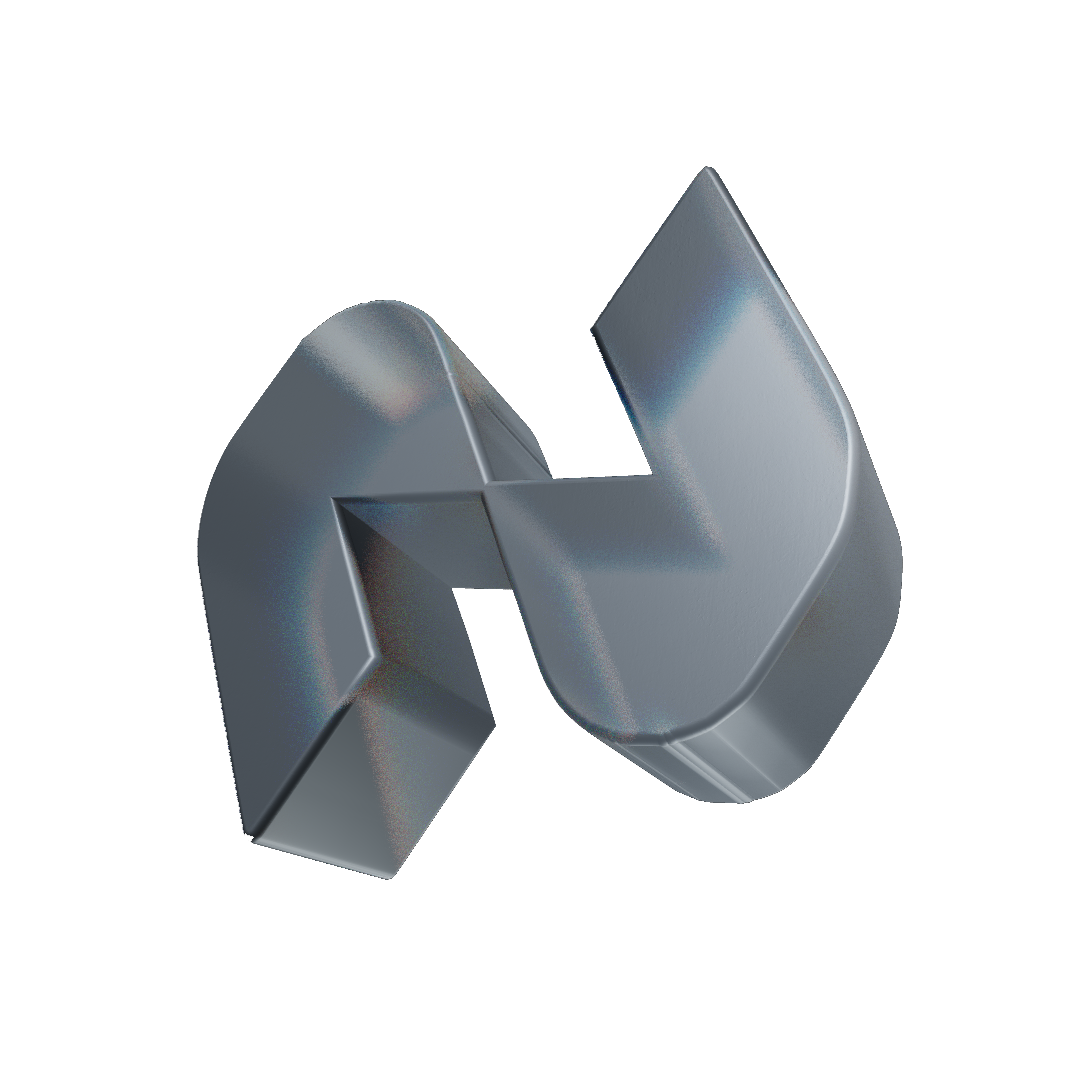
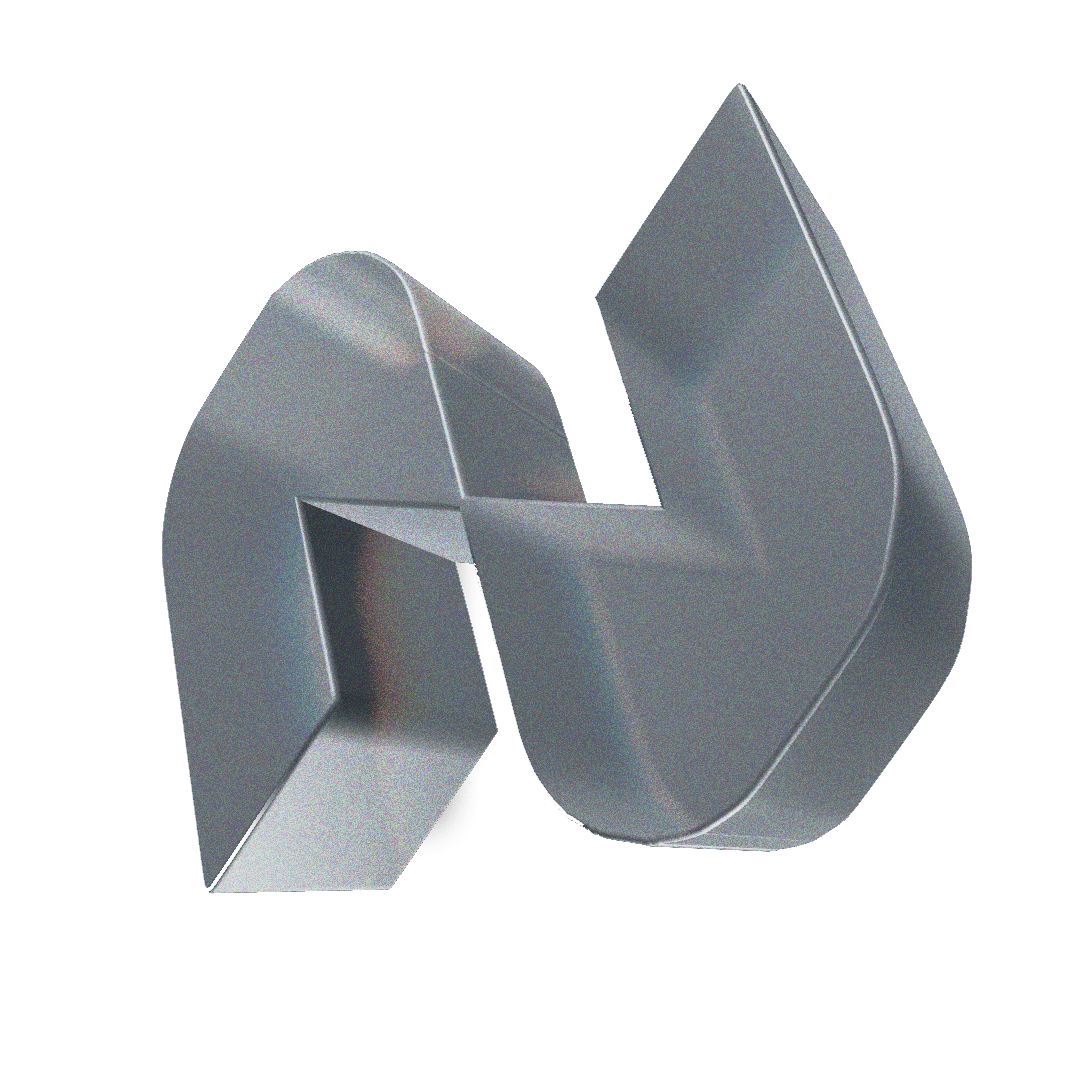
fixed email exist checking in signup logic

diff --git a/src/app/auth/register/page.tsx b/src/app/auth/register/page.tsx
@@ -59,9 +59,10 @@ export default function RegisterPage() {
           method: 'POST',
           headers: { 'Content-Type': 'application/json' },
           body: JSON.stringify({ email: formData.email })
-        })
-
-        emailAlreadyExists = checkResponse.ok;
+        }).then(res => {
+          return res.json();
+        });
+        emailAlreadyExists = checkResponse.exists;
       } catch (fetchErr) {
         console.warn('Email check error:', fetchErr)
         // Continue with signup anyway if email check fails
@@ -172,16 +173,25 @@ export default function RegisterPage() {
           </div>
 
           {/* Right side - Hero Image */}
-          <div className="hidden lg:block relative bg-gradient-to-br from-blue-900 via-blue-700 to-cyan-500">
+          <div className="hidden lg:block relative">
             {/* Logo Neaply en haut à droite */}
             <Link href="/" className="absolute top-8 right-8 z-20">
               <Image src="/images/neaply/logo-light.png" alt="Neaply Logo" width={120} height={40} priority />
             </Link>
 
-            <div className="absolute inset-0">
-              <img src="/images/neaply/neaply3D2.png" alt="Neaply Hero" className="w-full h-full object-cover" />
-              {/* Dark gradient overlay */}
-            </div>
+ 
+          <div className="absolute inset-0 flex items-center justify-center z-10">
+            {/* Animated glow rings behind logo */}
+            <div className="absolute w-[60%] aspect-square rounded-full bg-white/8 blur-3xl animate-pulse" />
+            <div className="absolute w-[45%] aspect-square rounded-full bg-white/5 blur-2xl animate-pulse" style={{ animationDelay: '0.5s' }} />
+            
+            {/* 3D Logo with subtle transparency */}
+            <img 
+              src="/images/neaply/neaply3D.png" 
+              alt="Neaply 3D Logo" 
+              className="w-[85%] relative z-10 opacity-100 drop-shadow-[0_0_60px_rgba(255,255,255,0.25)] " 
+            />
+          </div>
           </div>
         </div>
       </>
@@ -375,9 +385,9 @@ export default function RegisterPage() {
             
             {/* 3D Logo with subtle transparency */}
             <img 
-              src="/images/neaply/neaply3D2.png" 
+              src="/images/neaply/neaply3D.png" 
               alt="Neaply 3D Logo" 
-              className="w-[85%] relative z-10 opacity-80 drop-shadow-[0_0_60px_rgba(255,255,255,0.25)] hover:opacity-100 hover:drop-shadow-[0_0_70px_rgba(255,255,255,0.35)] transition-all duration-300 cursor-pointer" 
+              className="w-[85%] relative z-10 opacity-100 drop-shadow-[0_0_60px_rgba(255,255,255,0.25)] " 
             />
           </div>
         </div>
@@ -386,7 +396,7 @@ export default function RegisterPage() {
             <img
               src="/images/hero/hero-bg.png"
               alt="Neaply Background"
-              className="w-full h-full object-cover opacity-30"
+              className="w-full h-full object-cover opacity-20"
             />
           </div>
       </div>

diff --git a/src/app/auth/login/page.tsx b/src/app/auth/login/page.tsx
@@ -483,9 +483,9 @@ function LoginContent() {
             
             {/* 3D Logo with subtle transparency */}
             <img 
-              src="/images/neaply/neaply3D2.png" 
+              src="/images/neaply/neaply3D.png" 
               alt="Neaply 3D Logo" 
-              className="w-[85%] relative z-10 opacity-80 drop-shadow-[0_0_60px_rgba(255,255,255,0.25)] hover:opacity-100 hover:drop-shadow-[0_0_70px_rgba(255,255,255,0.35)] transition-all duration-300 cursor-pointer" 
+              className="w-[85%] relative z-10 opacity-100 drop-shadow-[0_0_60px_rgba(255,255,255,0.25)]" 
             />
           </div>
         </div>
@@ -494,7 +494,7 @@ function LoginContent() {
             <img
               src="/images/hero/hero-bg.png"
               alt="Neaply Background"
-              className="w-full h-full object-cover opacity-30"
+              className="w-full h-full object-cover opacity-20"
             />
           </div>
 
